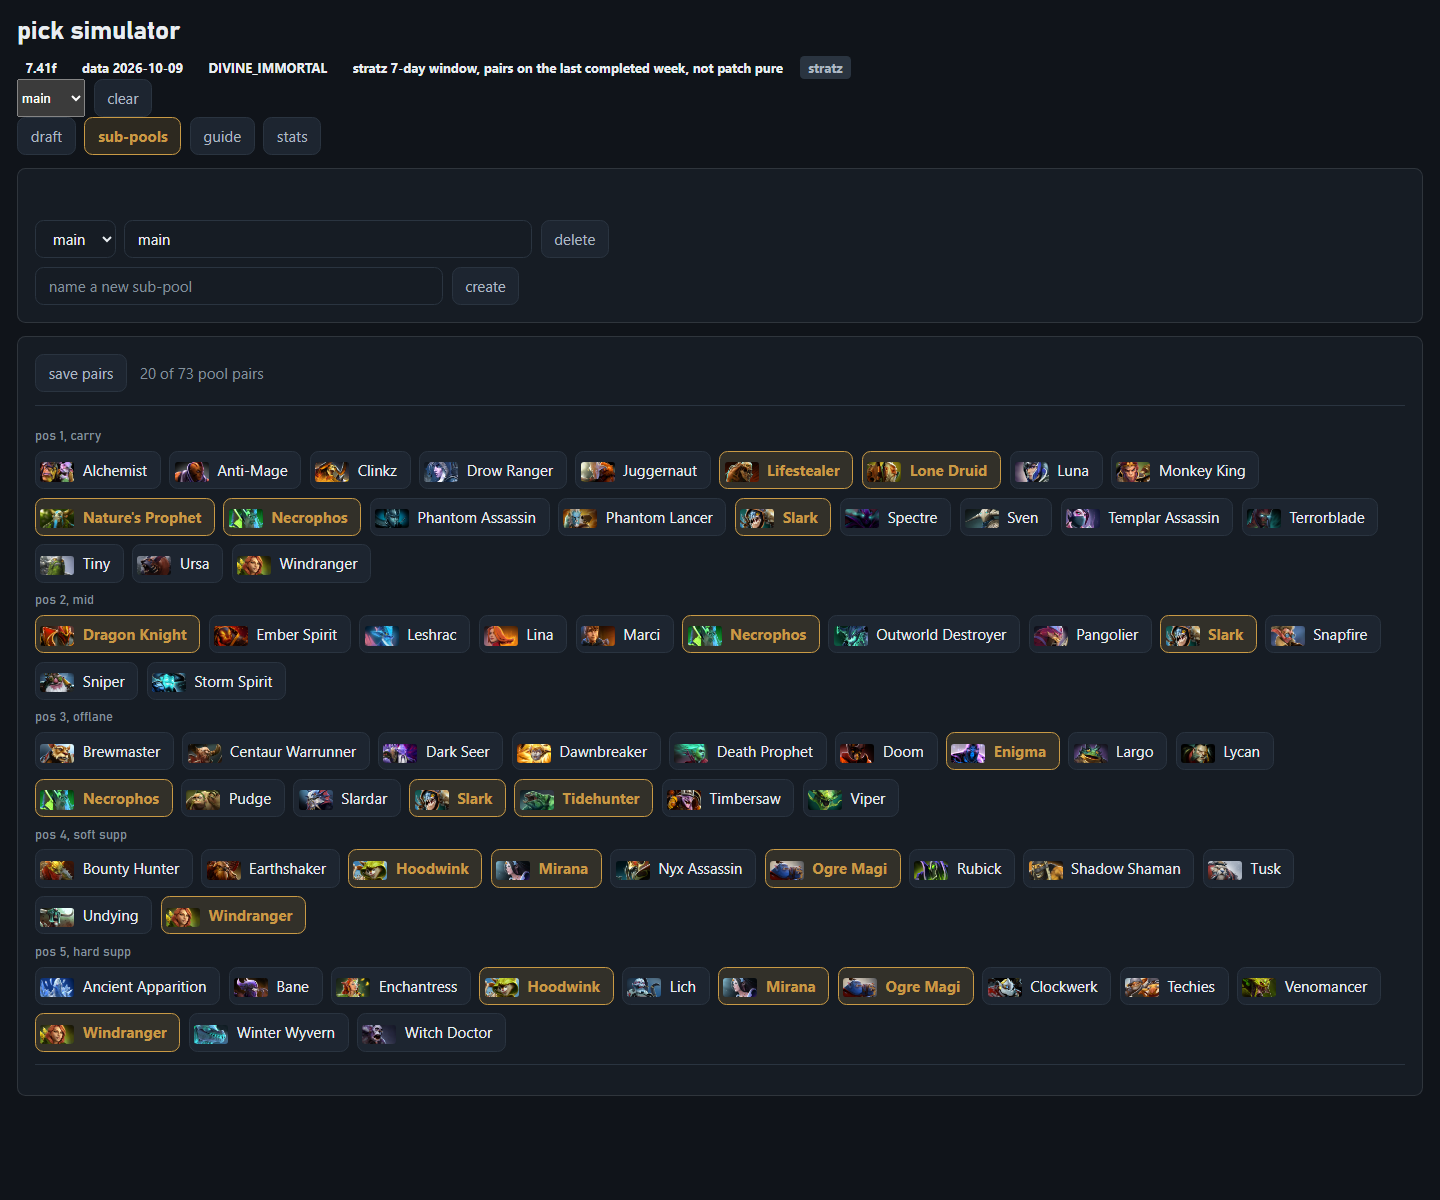
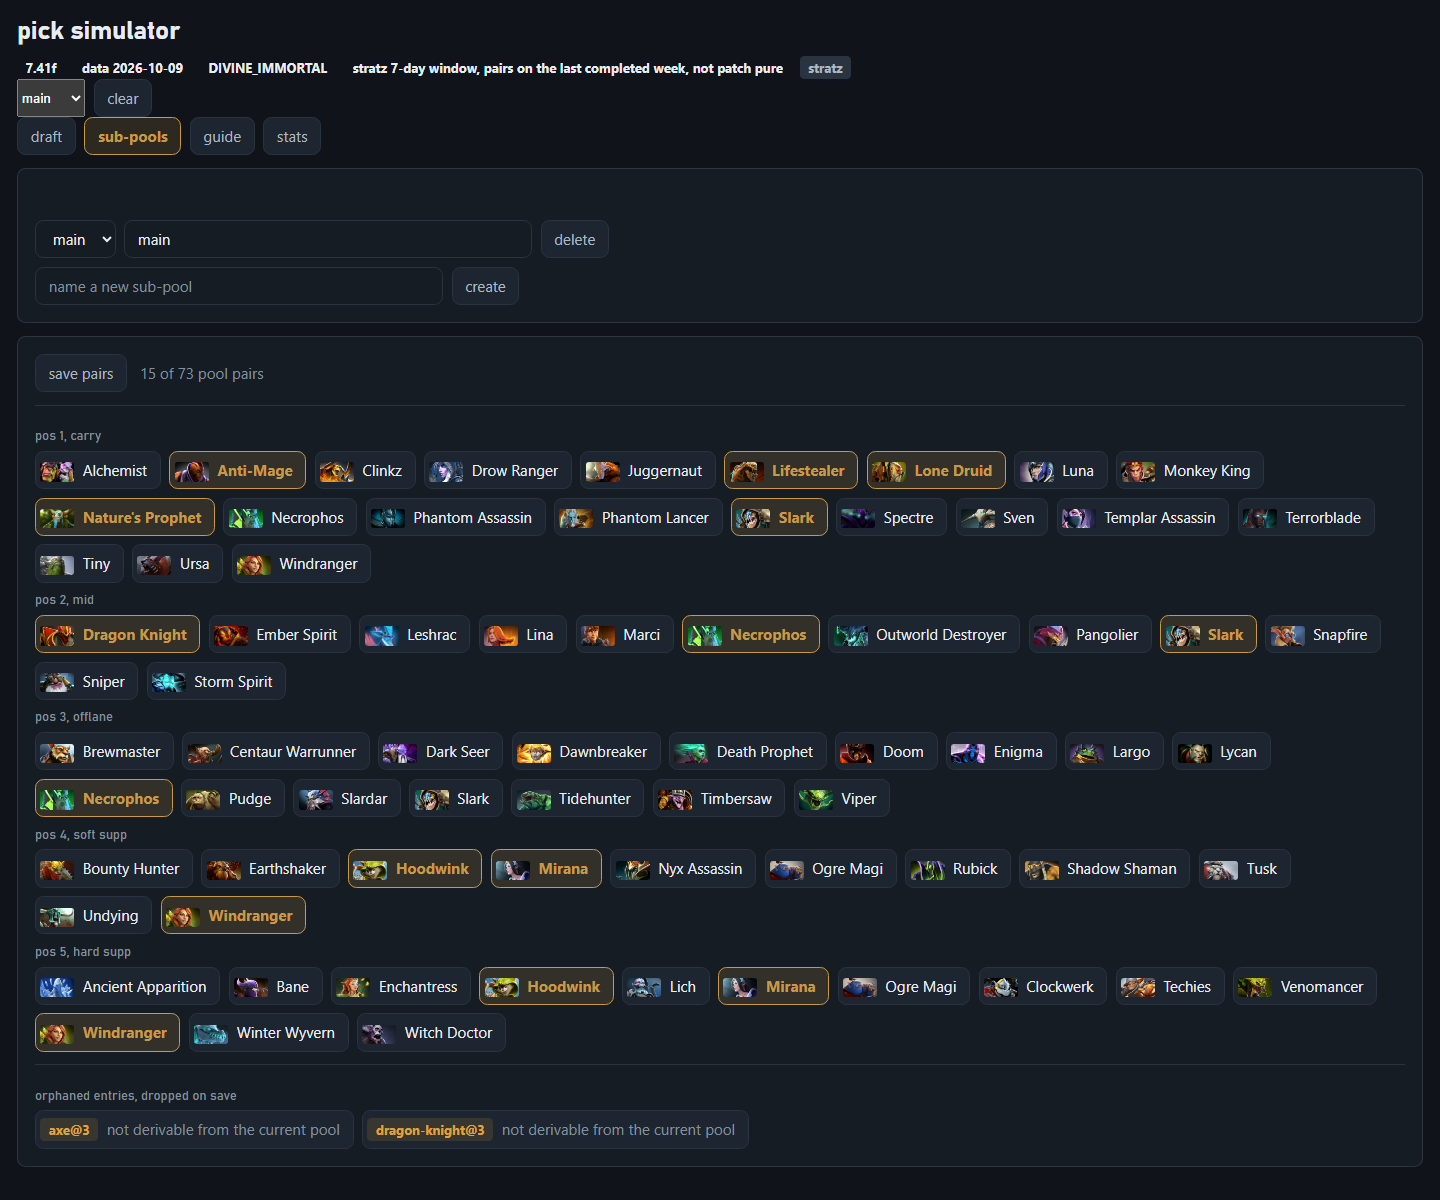
docs(readme): retake the sub-pools shot for the reworked roster

diff --git a/readme.md b/readme.md
@@ -19,7 +19,7 @@ place allies, enemies, and bans through the roster search or the pool panels, ai
 
 the sub-pools tab carves sub-pools out of the master pool through the loopback `/api/subsets`, and the subset bar in the header picks the active one, so the board panels and ranking filter live to the kept pairs (`make subsets` opens the tab). `main` is the first sub-pool, `make seed-main` reseeds it idempotently into the committed store.
 
-![the sub-pools tab with main selected on the header subset bar and its 20 pairs toggled on among the per-role pool chips](docs/subpools.png)
+![the sub-pools tab with main selected on the header subset bar and its 17 pairs toggled on among the per-role pool chips](docs/subpools.png)
 
 ### guide
 
